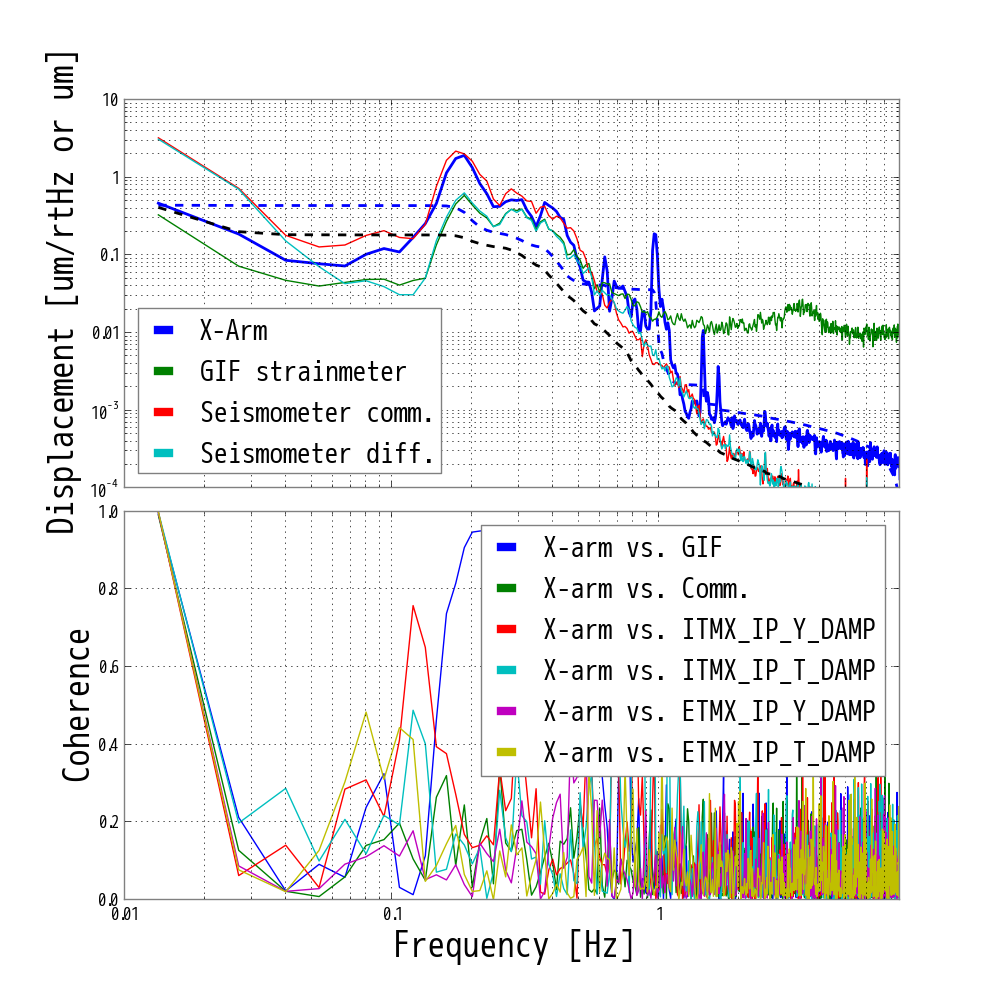
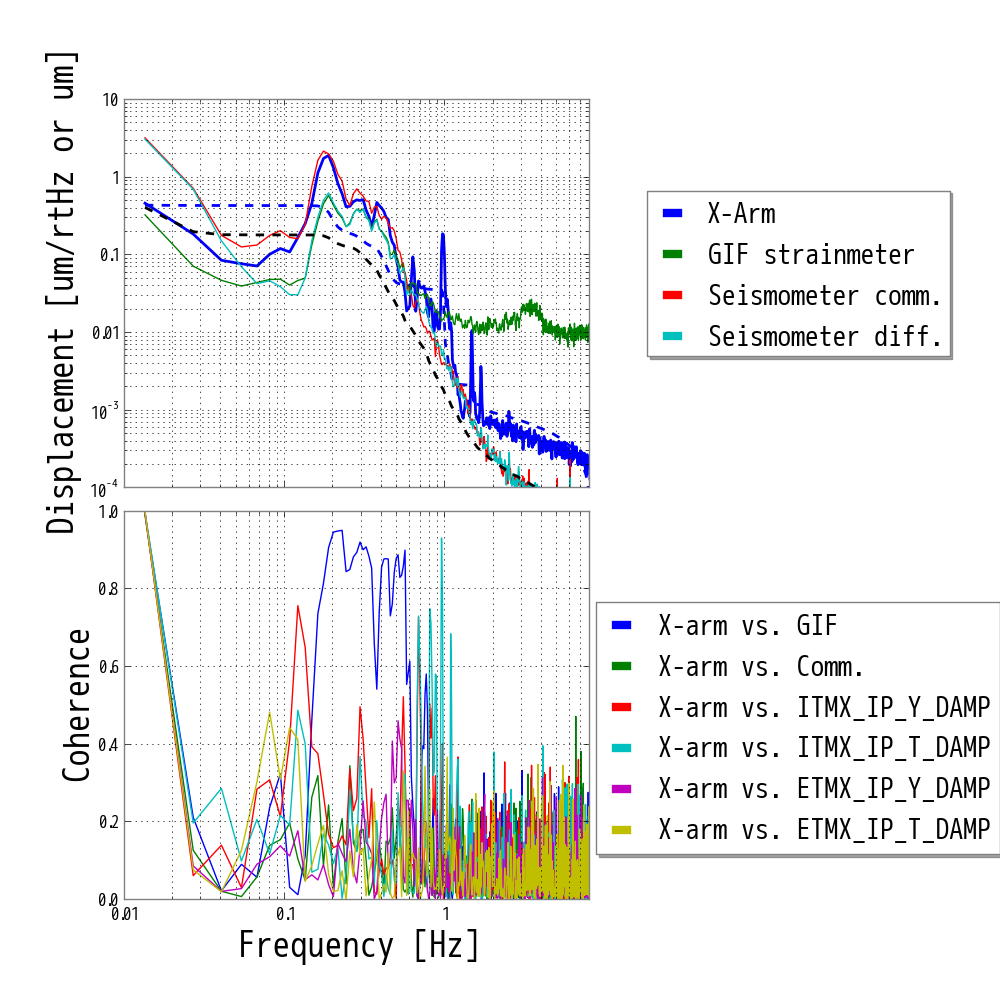
Update

Changed region(s): [[0.124, 0.093, 1.0, 0.961]]

diff --git a/alcs/sensor_correction_trial/main.py b/alcs/sensor_correction_trial/main.py
@@ -190,7 +190,7 @@ plt.close()
 
 
 # plot
-fig, (ax1,ax2) = plt.subplots(2,1,figsize=(12,12),sharex=True)
+fig, (ax1,ax2) = plt.subplots(2,1,figsize=(10,10),sharex=True)
 plt.subplots_adjust(hspace=0.06)
 #ax1.set_title(hoge,fontsize=40)
 ax1.loglog(xarm,label='X-Arm',color='b',linewidth=2)
@@ -200,7 +200,10 @@ ax1.loglog(comm_seis,label='Seismometer comm.',color='r',linestyle='-',linewidth
 ax1.loglog(diff_seis,label='Seismometer diff.',color='c',linestyle='-',linewidth=1)
 ax1.loglog(diff_seis.rms(),color='k',linestyle='--',linewidth=2)
 ax1.set_ylabel('Displacement [um/rtHz or um]',fontsize=25)
-ax1.legend(fontsize=20,loc='lower left')
+chartBox = ax1.get_position()
+ax1.set_position([chartBox.x0, chartBox.y0, chartBox.width*0.6, chartBox.height])
+ax1.legend(loc='upper center', bbox_to_anchor=(1.45, 0.8), shadow=True, ncol=1,fontsize=20)
+#ax1.legend(fontsize=20,loc='lower left')
 ax1.set_ylim(1e-4,10)
 ax2.set_ylabel('Coherence',fontsize=25)
 ax2.semilogx(coh_gif2xarm,label='X-arm vs. GIF',linewidth=1)
@@ -210,7 +213,10 @@ ax2.semilogx(coh_xarm2itmxipy,label='X-arm vs. ITMX_IP_Y_DAMP',linewidth=1)
 ax2.semilogx(coh_xarm2itmxipt,label='X-arm vs. ITMX_IP_T_DAMP',linewidth=1)
 ax2.semilogx(coh_xarm2etmxipy,label='X-arm vs. ETMX_IP_Y_DAMP',linewidth=1)
 ax2.semilogx(coh_xarm2etmxipt,label='X-arm vs. ETMX_IP_T_DAMP',linewidth=1)
-ax2.legend(fontsize=20,loc='upper right',alpha=0.4)
+chartBox = ax2.get_position()
+ax2.set_position([chartBox.x0, chartBox.y0, chartBox.width*0.6, chartBox.height])
+ax2.legend(loc='upper center', bbox_to_anchor=(1.45, 0.8), shadow=True, ncol=1,fontsize=20)
+#ax2.legend(fontsize=20,loc='upper right',alpha=0.4)
 ax2.set_xlabel('Frequency [Hz]',fontsize=25)
 ax2.set_ylim(0,1)
 ax2.set_xlim(1e-2,8)
